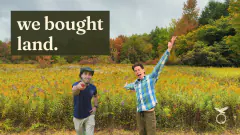
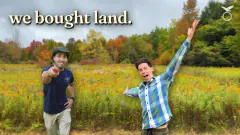
Episode thumbnails match YouTube. /road: the rig pulls through at the pump
The "every episode" thumbnails were out of date. E1, E2 and E3 were
older designs, and E4 was close but not the same file. All four are now
YouTube's own pictures (maxresdefault, 1280 x 720), with every size the
build makes from them. Checked by eye against the channel's videos page.

/road: pulling away from the gas stop, the fifth wheel swung sideways
through the pump, and coming in, the truck's nose clipped it. At the
pump the rig now keeps to one track: it comes over onto the gravel well
back, rolls up beside the pump, rolls on past it, and only then swings
back out to its lane. The truck points the way it is going and the
fifth wheel follows the truck's own track (pullThrough() and PULL in
road/roadworld.js). How it sits at every stop is exactly as before, so
the six stills stay as they are.

layout() in road/roadworld.js now lists what stands by the road (split
out of scene()), so a check can test the rig against what is drawn.

The new check also found two hops, both gone: the rig jumped 5 m forward
at u 3.5 (the camp's pull began before the camp was the stop it was
heading for), and 23 cm sideways as it set off home from the camp.

Checks: rigcheck (notes folder) now also tests the truck and the fifth
wheel against every triangle of every prop, pole and tree, at all three
planting densities, and looks for hops. It touches nothing and never
hops. Wheels as before (worst 2.6 cm into the road, 10.9 cm over it).
[…]

diff --git a/road/roadworld.js b/road/roadworld.js
@@ -20,6 +20,10 @@ const HITCH = -1.7, NOSE = 3.65, AXLE = 5.4;                // the truck's bed (
 const TURN = 0.13, INBOUND = 0.92, R_TURN = 6.5, R_GATE = 8, GATE_RUN = 3.6;
 /* how the rig sits at each stop: [the truck's turn off the road's own heading, the camper's turn off the truck's]. + is to its left */
 const POSE = [[0.3, 0.72], [-0.2, -0.07], [-0.1, -0.04], [-0.12, -0.05], [-0.62, -0.12]];
+/* at the pump it does not cut across to its spot and back out (the fifth wheel would swing through the pump). it comes over onto the
+   gravel well back, rolls along it to the pump, and after, rolls on along it before it swings back out to its lane:
+   [metres it rolls along the gravel coming in, metres going out, metres it takes to come over from its lane or go back to it] */
+const PULL = { 3: [14, 13, 26] };
 
 /** a place by the road, as a world point */
 const spot = (name, dy = 0) => { const [d, z] = P[name], p = land.beside(z, d); return [p[0], land.height(p[0], p[1]) + dy, p[1]]; };
@@ -53,13 +57,28 @@ function lane(z, dir, off = 0) {
   const hitch = local({ x: p[0], y: p[1], z: p[2], yaw }, [HITCH, 0, 0]), ax = onRoad(z + (AXLE - HITCH) * dir, d);
   return { x: p[0], y: p[1], z: p[2], yaw, cyaw: Math.atan2(-(hitch[2] - ax[2]), hitch[0] - ax[0]), park: 0 };
 }
+/** a stop it pulls through (the pump). it keeps to one track: over from its lane onto the gravel, along the gravel to its spot, on
+    along it, and back out to its lane. the truck points the way the track goes and the fifth wheel follows the truck's own track, so
+    nothing swings sideways. it gets as far along the track as it would get anywhere else (park), and stands still at the stop the same */
+function pullThrough(n, zl, park) {
+  const [d, z0] = P["park" + n], [inLen, outLen, over] = PULL[n];
+  const at = (z) => { const s = z - z0, off = s > 0 ? smooth(inLen, inLen + over, s) : smooth(outLen, outLen + over, -s); return onRoad(z, lerp(d, land.LANE, off)); };
+  const z = z0 + (zl - z0) * (1 - park), p = at(z), ahead = at(z - 0.5), yaw = Math.atan2(-(ahead[2] - p[2]), ahead[0] - p[0]);
+  const hitch = local({ x: p[0], y: p[1], z: p[2], yaw }, [HITCH, 0, 0]), ax = at(z + (AXLE - HITCH)), cyaw = Math.atan2(-(hitch[2] - ax[2]), hitch[0] - ax[0]);
+  // over the last few metres in, it takes up the way it sits at the stop, and lets go of it over the first few out
+  const w = 1 - smooth(0, 4, Math.abs(z - z0)), pyaw = yawOf(land.heading(z0)) + POSE[n][0];
+  return { x: p[0], y: land.height(p[0], p[2]) + 0.05, z: p[2], yaw: angLerp(yaw, pyaw, w), cyaw: angLerp(cyaw, pyaw + POSE[n][1], w), park };
+}
 /** where the truck is and which way it and the fifth wheel point, at stop-progress u: { x, y, z, yaw, cyaw, park }.
     (y is only roughly the ground there. settle() is what sets the rig down on its wheels.) */
 export function rigAt(u) {
   if (u <= 4) {
     // heading south. it eases away from each stop and up to the next, and pulls over where it stops
-    const k = Math.min(Math.floor(u), 3), r = lane(lerp(RZ[k], RZ[k + 1], ease(u - k)), 1);
-    const n = Math.round(u), park = n === 4 ? smooth(3.45, 3.95, u) : 1 - smooth(0.04, 0.3, Math.abs(u - n));
+    const k = Math.min(Math.floor(u), 3), zl = lerp(RZ[k], RZ[k + 1], ease(u - k));
+    // (the camp's pull starts at 3.5, where the camp becomes the stop it is heading for. any earlier and the rig hops forward there)
+    const n = Math.round(u), park = n === 4 ? smooth(3.5, 3.95, u) : 1 - smooth(0.04, 0.3, Math.abs(u - n));
+    if (PULL[n]) return pullThrough(n, zl, park);
+    const r = lane(zl, 1);
     if (park > 0) {
       const name = n === 4 ? "camp" : "park" + n, at = spot(name, 0.05), pyaw = yawOf(land.heading(P[name][1])) + POSE[n][0];
       r.x = lerp(r.x, at[0], park); r.y = lerp(r.y, at[1], park); r.z = lerp(r.z, at[2], park);
@@ -77,8 +96,10 @@ export function rigAt(u) {
   const zIn = P.gate[1] - R_GATE;                                           // where it starts the turn in at the gate
   if (f < INBOUND) {
     // the drive home. it settles into its lane over the first stretch
-    const g = (f - TURN) / (INBOUND - TURN), off = (land.lateral(end[0], end[1]) + land.LANE) * (1 - smooth(0, 0.05, g));
-    return lane(lerp(end[1], zIn, ease(g)), -1, off);
+    // (it starts from the road's own z for where the turn left it, not the world z, or it hops sideways as it sets off)
+    const dEnd = land.lateral(end[0], end[1]), zEnd = end[1] - land.heading(end[1])[0] * dEnd;
+    const g = (f - TURN) / (INBOUND - TURN), off = (dEnd + land.LANE) * (1 - smooth(0, 0.05, g));
+    return lane(lerp(zEnd, zIn, ease(g)), -1, off);
   }
   // turning in: a quarter turn to the left across the road, then straight at the gate. it stops with the truck's nose in the gateway
   const g = ease((f - INBOUND) / (1 - INBOUND)), from = lane(zIn, -1), run = R_GATE * Math.PI / 2, s = g * (run + GATE_RUN);
@@ -106,6 +127,47 @@ export function settle(rig) {
   const hx = rig.x + F[0] * HITCH, hz = rig.z + F[1] * HITCH, hy = y + HITCH * Math.sin(tip);            // the hitch rides up and down with the truck's bed
   const C = [Math.cos(rig.cyaw), -Math.sin(rig.cyaw)], ya = axle(hx - C[0] * BACK, hz - C[1] * BACK, rig.cyaw, 1.13);
   return { truck: [rig.x, y, rig.z, rig.yaw, tip], camper: [hx - C[0] * NOSE, ya + (hy - ya) * (AXLES / BACK), hz - C[1] * NOSE, rig.cyaw, Math.atan2(hy - ya, BACK)] };
+}
+
+/* ---------- what stands by the road ---------- */
+/** everything that stands by the road, and where. nothing is drawn here, so a check can ask the same thing the scene does:
+    what is where (tools/rigcheck.mjs, in the notes folder, uses it to see that the rig drives through none of it).
+    things: [{ name, geo, pos, yaw, s }] in the order they are drawn. pins: [[x, y, z, size]], one over each stop's thing. */
+export function layout() {
+  const things = [], put = (name, geo, pos, yaw = 0, s = 1) => { things.push({ name, geo, pos, yaw, s }); return pos; };
+  const eyes = STOP_IDS.map((_, k) => onRoad(RZ[k] + land.CAM[k][0], land.CAM[k][1], land.CAM[k][2]));       // where the camera stands at each stop
+  // the land's gate and mailbox: where the trip starts, and where it ends
+  const gate = put("the gate", walkShapes.gate(), spot("gate"), yawOf(land.heading(P.gate[1])) + Math.PI);    // its leaf swung open, away from the road
+  put("the mailbox", walkShapes.mailbox(), spot("mailbox"), yawOf(land.heading(P.mailbox[1])) + Math.PI);
+  // the screen: the engine's film goes on its sheet. it is as big as a drive-in's, with its feet well into the ground
+  const scr = spot("screen", 3.1); put("the screen", shapes.roadScreen(), scr, facing(scr, eyes[1]), SCREEN);
+  const post = spot("signpost"); put("the signpost", shapes.signpost(), post, facing(post, eyes[2]) + 0.25, POST);
+  const pump = spot("pump"); put("pump", shapes.gasPump(), pump, facing(pump, eyes[3]) + 0.3, PUMP);
+  const cup = spot("cup"); put("the big cup", shapes.cupSign(), cup, facing(cup, eyes[3]) - 0.3, CUP);
+  // the camp: two chairs turned to the water, the sign that points home
+  const sea = land.beside(P.chairs[1] - 6, 90), west = [sea[0], 0, sea[1]];
+  const ch = spot("chairs"), seat = (ink, dx, dz) => { const at = [ch[0] + dx, ch[1], ch[2] + dz]; put("a camp chair", walkShapes.chair(ink), at, facing(at, west), 1.25); };
+  seat(INK.BEAD4, 0, 0); seat(INK.BEAD2, -0.5, -1.9);
+  const north = spot("north"); put("the sign at the camp", shapes.northSign(), north, facing(north, eyes[4]), 1.3);
+  // the wire that follows the road out of the north. it is built where it stands, so it is not moved or turned
+  const poles = land.poles(), line = new walkShapes.Geo(), wire = [INK.PEPPER, 0, 9, 0];
+  poles.forEach((p, k) => {
+    const yaw = yawOf(land.heading(p[2])) + Math.PI / 2, c = Math.cos(yaw), s = Math.sin(yaw);
+    line.add(shapes.pole(), { pos: p, yaw });
+    const n = poles[k + 1];
+    if (n) {
+      const y2 = yawOf(land.heading(n[2])) + Math.PI / 2, c2 = Math.cos(y2), s2 = Math.sin(y2);
+      for (const [ax, ay] of shapes.POLE_WIRE) {
+        const a = [p[0] + c * ax, p[1] + ay, p[2] - s * ax], b = [n[0] + c2 * ax, n[1] + ay, n[2] - s2 * ax];
+        const mid = [(a[0] + b[0]) / 2, (a[1] + b[1]) / 2 - 0.55 * (Math.hypot(b[0] - a[0], b[2] - a[2]) / 46) ** 2, (a[2] + b[2]) / 2];      // a longer span hangs lower
+        line.add(walkShapes.tube(a, mid, 0.012, 0.012, 3, wire, 4, false)).add(walkShapes.tube(mid, b, 0.012, 0.012, 3, wire, 4, false));
+      }
+    }
+  });
+  things.push({ name: "the poles and the wire", geo: line, pos: [0, 0, 0], yaw: 0, s: 1, fixed: true });
+  const pins = [[scr[0], scr[1] + 12.2, scr[2], 1.7], [post[0], post[1] + 3.5 * POST + 0.7, post[2], 1.3], [pump[0], pump[1] + 2.3 * PUMP + 0.7, pump[2], 1.15],
+                [ch[0] - 0.3, ch[1] + 3.4, ch[2] - 1, 1.1], [gate[0], gate[1] + 3.3, gate[2], 1.1]];
+  return { things, pins };
 }
 
 export class RoadWorld extends Printer {
@@ -147,54 +209,26 @@ export class RoadWorld extends Printer {
     for (let k = 0; k < plants.length; k += 6) (plants[k + 5] === 0 ? heads : blades).push(plants[k], plants[k + 1], plants[k + 2], plants[k + 3], plants[k + 4], plants[k + 5]);
     this.plants.push(this.plantMesh(new Float32Array(heads), 0), this.plantMesh(new Float32Array(blades), 1));
 
-    // things by the road
+    // things by the road (layout() says what stands where)
     let nextId = 16;
     const add = (geo, pos, yaw = 0, s = 1, extra = {}) => {
       const p = { mesh: this.mesh(geo.build()), model: rotY(m4.create(), pos[0], pos[1], pos[2], yaw, s), id: nextId, x: pos[0], y: pos[1], z: pos[2], yaw, s, ...extra };
       nextId = nextId >= 232 ? 16 : nextId + 8;
       this.props.push(p); return p;
     };
-    const eyes = STOP_IDS.map((_, k) => onRoad(RZ[k] + land.CAM[k][0], land.CAM[k][1], land.CAM[k][2]));       // where the camera stands at each stop
-    // the land's gate and mailbox: where the trip starts, and where it ends
-    const gate = spot("gate");
-    add(walkShapes.gate(), gate, yawOf(land.heading(P.gate[1])) + Math.PI);                   // its leaf swung open, away from the road
-    add(walkShapes.mailbox(), spot("mailbox"), yawOf(land.heading(P.mailbox[1])) + Math.PI);
-    // the screen: the engine's film goes on its sheet. it is as big as a drive-in's, with its feet well into the ground
-    const scr = spot("screen", 3.1);
-    this.screen = add(shapes.roadScreen(), scr, facing(scr, eyes[1]), SCREEN);
-    const post = spot("signpost"); add(shapes.signpost(), post, facing(post, eyes[2]) + 0.25, POST);
-    const pump = spot("pump"); this.pump = add(shapes.gasPump(), pump, facing(pump, eyes[3]) + 0.3, PUMP);
-    const cup = spot("cup"); add(shapes.cupSign(), cup, facing(cup, eyes[3]) - 0.3, CUP);
-    // the camp: two chairs turned to the water, the sign that points home
-    const sea = land.beside(P.chairs[1] - 6, 90), west = [sea[0], 0, sea[1]];
-    const ch = spot("chairs"), seat = (ink, dx, dz) => { const at = [ch[0] + dx, ch[1], ch[2] + dz]; return add(walkShapes.chair(ink), at, facing(at, west), 1.25); };
-    seat(INK.BEAD4, 0, 0); seat(INK.BEAD2, -0.5, -1.9);
-    const north = spot("north"); add(shapes.northSign(), north, facing(north, eyes[4]), 1.3);
-    // the wire that follows the road out of the north
-    const poles = land.poles(), line = new walkShapes.Geo(), wire = [INK.PEPPER, 0, 9, 0];
-    poles.forEach((p, k) => {
-      const yaw = yawOf(land.heading(p[2])) + Math.PI / 2, c = Math.cos(yaw), s = Math.sin(yaw);
-      line.add(shapes.pole(), { pos: p, yaw });
-      const n = poles[k + 1];
-      if (n) {
-        const y2 = yawOf(land.heading(n[2])) + Math.PI / 2, c2 = Math.cos(y2), s2 = Math.sin(y2);
-        for (const [ax, ay] of shapes.POLE_WIRE) {
-          const a = [p[0] + c * ax, p[1] + ay, p[2] - s * ax], b = [n[0] + c2 * ax, n[1] + ay, n[2] - s2 * ax], mid = [(a[0] + b[0]) / 2, (a[1] + b[1]) / 2 - 0.55 * (Math.hypot(b[0] - a[0], b[2] - a[2]) / 46) ** 2, (a[2] + b[2]) / 2];      // a longer span hangs lower
-          line.add(walkShapes.tube(a, mid, 0.012, 0.012, 3, wire, 4, false)).add(walkShapes.tube(mid, b, 0.012, 0.012, 3, wire, 4, false));
-        }
-      }
-    });
-    this.props.push({ mesh: this.mesh(line.build()), model: m4.create(), id: 240, noShadow: true });
-
+    const lay = layout();
+    for (const t of lay.things) {
+      if (t.fixed) { this.props.push({ mesh: this.mesh(t.geo.build()), model: m4.create(), id: 240, noShadow: true }); continue; }
+      const p = add(t.geo, t.pos, t.yaw, t.s);
+      if (t.name === "pump") this.pump = p;
+    }
     // the rig: the truck and the fifth wheel. they are placed every frame (see animate).
     this.truck = add(walkShapes.truck(), [0, 0, 0]);
     this.camper = add(walkShapes.camper(true), [0, 0, 0]);
     this.trim = add(shapes.rigTrim(), [0, 0, 0], 0, 1, { noShadow: true });
     // a pixel pin over each stop's thing, and over the gate
     const pinGeo = shapes.pixelPin(0.12);
-    this.pins = [[scr[0], scr[1] + 12.2, scr[2], 1.7], [post[0], post[1] + 3.5 * POST + 0.7, post[2], 1.3], [pump[0], pump[1] + 2.3 * PUMP + 0.7, pump[2], 1.15],
-                 [ch[0] - 0.3, ch[1] + 3.4, ch[2] - 1, 1.1], [gate[0], gate[1] + 3.3, gate[2], 1.1]]
-      .map((at, k) => ({ ...add(pinGeo, at, 0, 1, { noShadow: true }), at, k, size: at[3] }));
+    this.pins = lay.pins.map((at, k) => ({ ...add(pinGeo, at, 0, 1, { noShadow: true }), at, k, size: at[3] }));
 
     const seeds = new Float32Array(16 * 4);
     this.motes = this.moteMesh(seeds);
